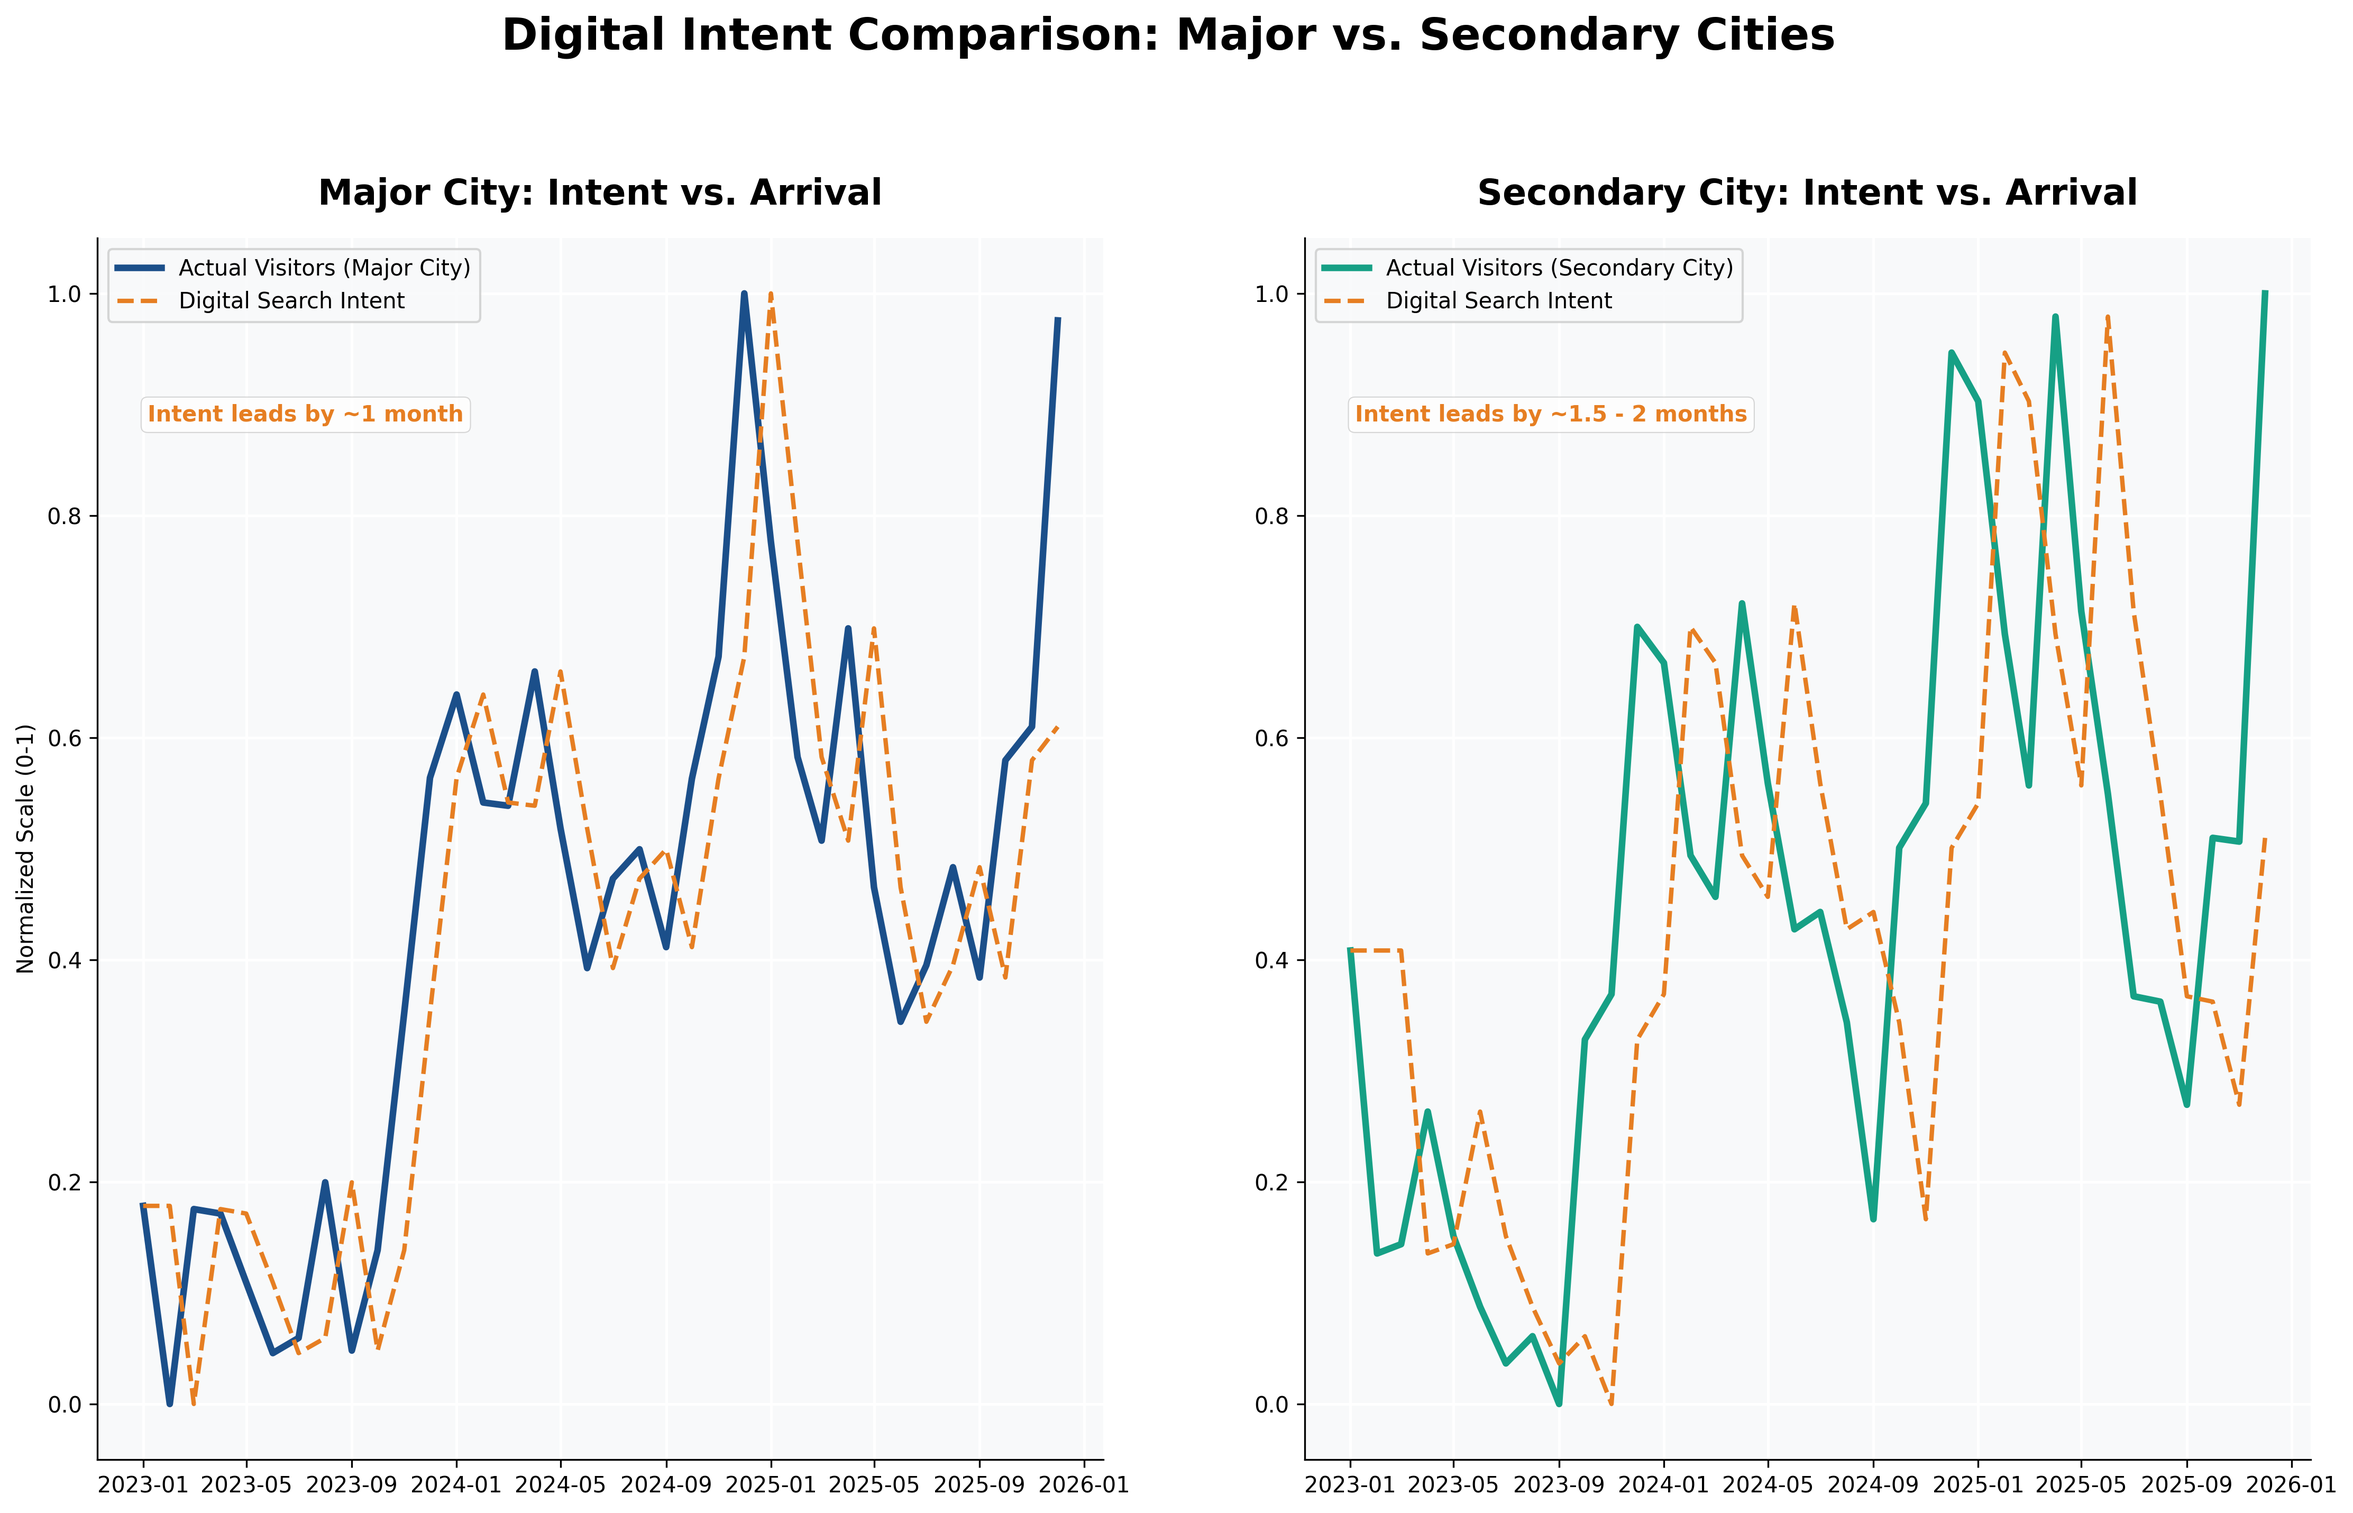
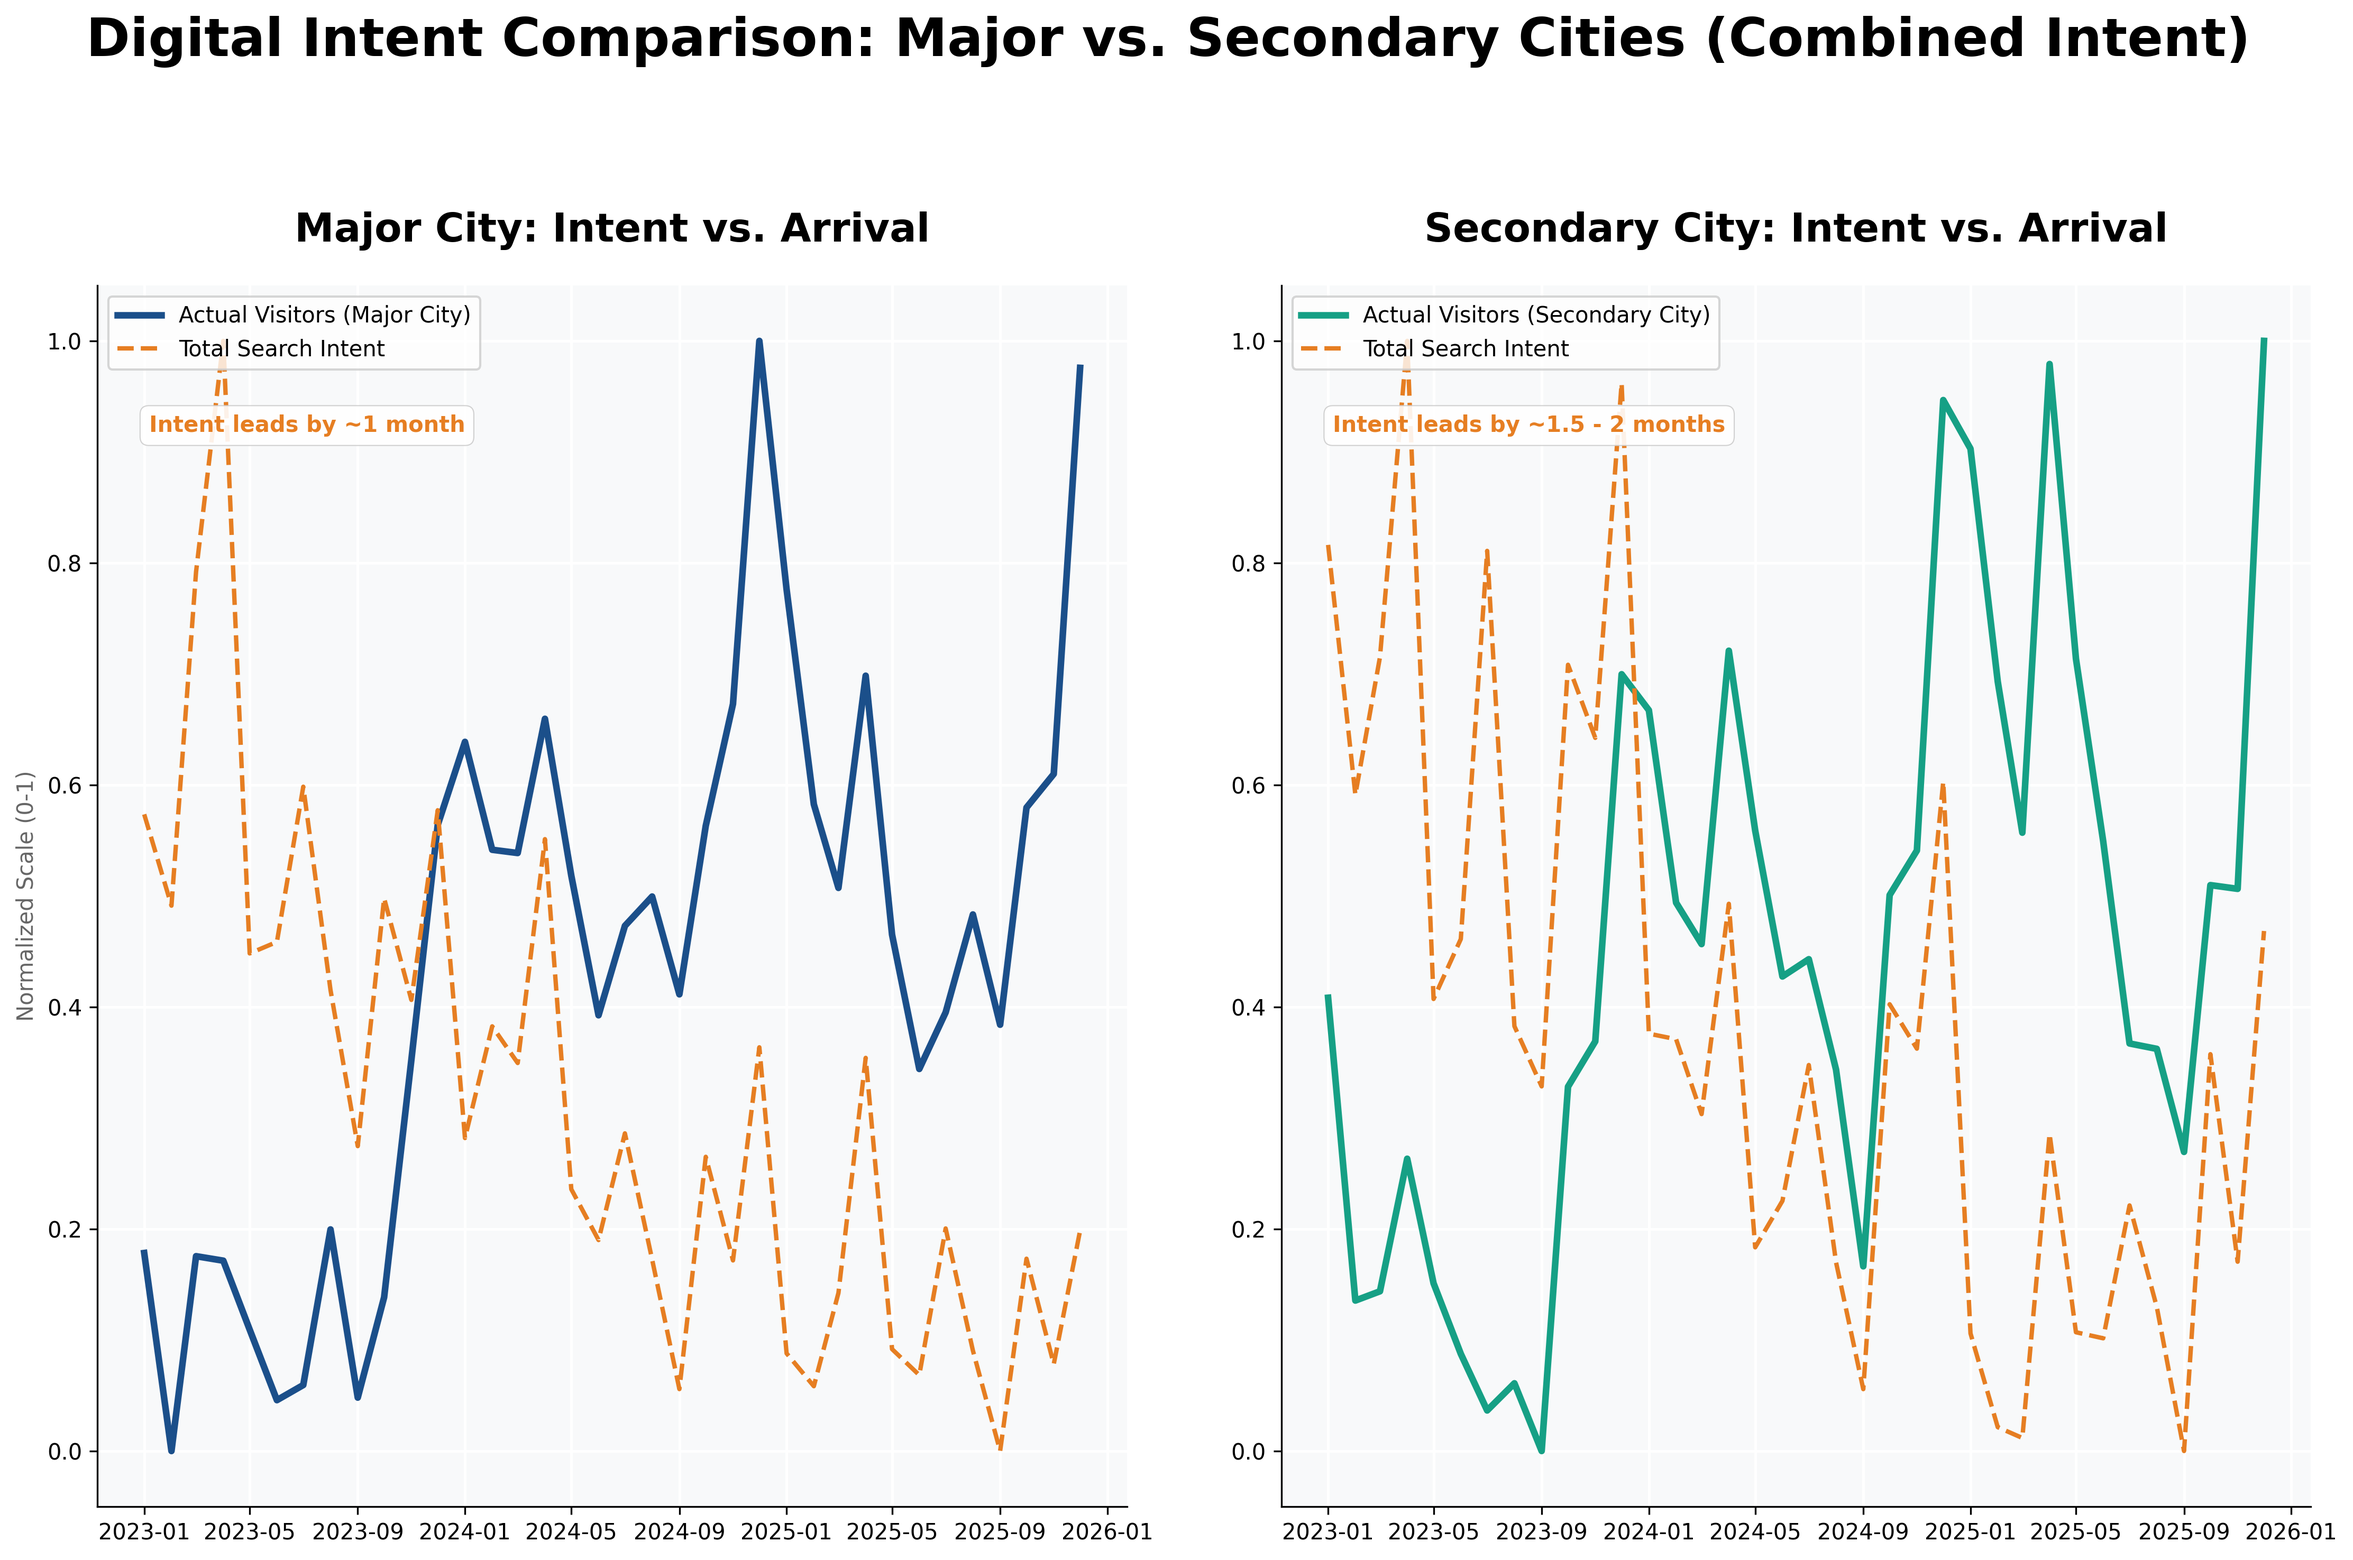
update cleaned data and script

diff --git a/visualizations/03_Intent_Comparison.py b/visualizations/03_Intent_Comparison.py
@@ -1,0 +1,77 @@
+import pandas as pd
+import matplotlib.pyplot as plt
+import os
+
+# ─── Style & Colors ──────────────────────────────────────────────────────────
+plt.rcParams.update({
+    'figure.facecolor': 'white',
+    'axes.facecolor': '#F8F9FA',
+    'axes.grid': True,
+    'grid.color': '#FFFFFF',
+    'grid.linewidth': 1.2,
+    'font.family': 'sans-serif',
+    'axes.spines.top': False,
+    'axes.spines.right': False,
+})
+
+COLORS = {
+    'Major City': '#1B4F8A',
+    'Secondary City': '#16A085',
+    'Total Intent': '#E67E22'
+}
+
+# ─── Load & Data Prep ────────────────────────────────────────────────────────
+data_path = "data/processed/final_master_with_trends.csv"
+df = pd.read_csv(data_path)
+df['total_search_intent'] = df['search_thai'] + df['search_foreign']
+
+if 'Year_CE' not in df.columns:
+    df['Year_CE'] = df['Year'].astype(int) - 543
+df['date'] = pd.to_datetime(df['Year_CE'].astype(str) + '-' + df['Month'], format='%Y-%b')
+
+def normalize(series):
+    return (series - series.min()) / (series.max() - series.min())
+
+# ─── Visualization (Lag-Aligned & Clean Layout) ───
+fig, (ax1, ax2) = plt.subplots(2, 1, figsize=(16, 14), sharex=True, gridspec_kw={'hspace': 0.3})
+bbox_props = dict(boxstyle="round,pad=0.4", fc="white", ec="#CCCCCC", alpha=0.9, lw=0.5)
+
+# รายละเอียดการเลื่อนเวลา (Lag Adjustment)
+configs = [
+    (ax1, 'Major City', -1, COLORS['Major City']),
+    (ax2, 'Secondary City', -2, COLORS['Secondary City'])
+]
+
+for ax, city_type, lag, city_color in configs:
+    df_city = df[df['City_type_EN'] == city_type].groupby('date').sum().reset_index()
+    
+    # Normalize & Align
+    df_city['visitors_norm'] = normalize(df_city['total_visitors'])
+    df_city['intent_aligned'] = normalize(df_city['total_search_intent']).shift(lag)
+
+    # Plot
+    ax.plot(df_city['date'], df_city['visitors_norm'], color=city_color, lw=3, label=f'Actual Visitors ({city_type})')
+    ax.plot(df_city['date'], df_city['intent_aligned'], color=COLORS['Total Intent'], lw=2, ls='--', label='Aligned Search Intent')
+    
+    # ─── Fix Legend: ย้ายไปวางข้างบน ───
+    ax.legend(loc='lower left', bbox_to_anchor=(0, 1.02), ncol=2, frameon=False, fontsize=11)
+    
+    # ─── Fix Title & Annotation: เพิ่มระยะห่างไม่ให้ทับ ───
+    ax.set_title(f"{city_type}: Aligned Patterns (Lag: {abs(lag)} Month(s))", 
+                 fontweight='bold', fontsize=18, loc='left', pad=45)
+    
+    # ย้าย Annotation ไปไว้มุมขวาเพื่อเลี่ยงการทับเส้นกราฟในช่วงต้น
+    ax.text(0.98, 0.92, f"Conversion Analysis: {city_type}", transform=ax.transAxes, 
+            fontweight='bold', color='#666', ha='right', bbox=bbox_props)
+
+    ax.set_ylabel("Normalized Scale (0-1)", color='#666')
+    ax.set_ylim(-0.05, 1.15)
+
+plt.xlabel("Timeline (Adjusted for Planning Lead Time)", fontsize=12, labelpad=15)
+fig.suptitle("Comparison of Conversion Efficiency (Lag Aligned)", fontsize=24, fontweight='bold', y=0.98)
+
+os.makedirs('visualizations', exist_ok=True)
+plt.savefig("visualizations/Figure 4_Lag_Aligned_Clean.png", dpi=300, bbox_inches='tight')
+plt.close()
+
+print("✅ Figure 4 (Clean Layout) created successfully!")

diff --git a/README.md b/README.md
@@ -103,9 +103,33 @@ While Figure 3 proves we have successfully shifted **"Where"** people go (Volume
 This leads us to the next chapter of our story: **The Action.**
 
 ---
-**Next in Series:** *03 : The Action — Momentum vs. Performance*
+
+# 03 : The Action — Momentum vs. Efficiency
+### *Predicting the Surge: Major vs. Secondary Decision Windows*
 
 ---
+
+## 🔍 The Digital Spark: Aggregated Intent
+To understand the conversion efficiency of tourism demand, we analyze the **Total Search Intent** (Thai + English) against actual arrivals.
+
+### **Figure 4: Digital Intent Patterns (Lag Aligned)**
+![Figure 4](visualizations/Figure%204_Lag_Aligned_Clean.png)
+
+By aligning search signals with physical arrivals, we uncover two distinct decision-making cultures:
+
+* **Major Cities (The Convenient Choice):** Exhibit a short **1-month lead time**. High familiarity allows for spontaneous trips and quick conversions.
+* **Secondary Cities (The Planned Adventure):** Exhibit a longer **2-month lead time**. Travelers require more time for "Discovery Research" before committing to an emerging destination.
+
+### **📈 Conversion Efficiency Insights**
+Using **Lag Alignment** (shifting the search intent to match arrival peaks), we can evaluate how effectively digital interest translates into local footprints:
+
+* **High Efficiency:** When the dashed intent line tightly tracks the solid visitor line, it indicates a high conversion rate.
+* **The Yield Gap:** Significant gaps between search peaks and arrival peaks in secondary cities suggest potential infrastructure bottlenecks (e.g., limited transport or accommodation) that prevent high interest from becoming actual visits.
+
+> **Strategy Note:** For secondary cities, marketing campaigns must be launched **at least 8 weeks** in advance to capture the peak planning phase.
+
+---
+**Next in Series:** *04 : The Reality — Real Wealth Generation & Purchasing Power*
 
 ## 🔍 The Digital Spark: Predicting the Next Wave
 Every physical trip begins with a digital search. By tracking Google Trends, we find that a city's **"Potential"** appears on a screen long before a traveler arrives at a hotel.
